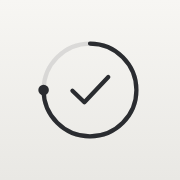
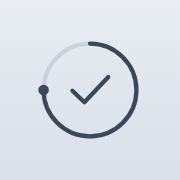
앱 아이콘 블루그레이 계열로 (#184)
Claude-Session: https://claude.ai/code/session_017BV2gW13GbSCur7JoCaXgo

Changed region(s): [[0.1944, 0.2222, 0.7778, 0.7778], [0.3889, 0.4167, 0.6111, 0.5833]]

diff --git a/src/lib/appIcon.js b/src/lib/appIcon.js
@@ -1,7 +1,7 @@
 // 홈 화면 앱 아이콘: 고른 그림을 apple-touch-icon 으로 (홈 화면에 다시 추가할 때 반영)
 // 틴트용: iOS 홈 화면 '틴트' 아이콘 모드는 밝기만 남겨 색을 입히므로, 어두운 바탕 + 밝기 단계가 다른 흰 선으로 만듦
-export const APP_ICONS = [['', '기본'], ['light', '화이트'], ['dark', '차콜'], ['mono', '블랙'], ['olive', '그레이'], ['tint', '틴트용'],
-  ['book', '책'], ['book-d', '책 다크'], ['pencil', '연필'], ['pencil-d', '연필 다크'], ['page', '공책'], ['page-d', '공책 다크'], ['clock', '시계'], ['clock-d', '시계 다크'], ['dots', '점'], ['dots-d', '점 다크'], ['moon', '달'], ['moon-d', '달 다크']] // 모두 모노톤 (키는 예전 선택 유지용)
+export const APP_ICONS = [['', '기본'], ['light', '페일'], ['dark', '다크'], ['mono', '딥'], ['olive', '미드'], ['tint', '틴트용'],
+  ['book', '책'], ['book-d', '책 다크'], ['pencil', '연필'], ['pencil-d', '연필 다크'], ['page', '공책'], ['page-d', '공책 다크'], ['clock', '시계'], ['clock-d', '시계 다크'], ['dots', '점'], ['dots-d', '점 다크'], ['moon', '달'], ['moon-d', '달 다크']] // 모두 블루그레이 한 계열 (키는 예전 선택 유지용)
 const base = import.meta.env.BASE_URL
 export const iconSrc = (k) => (k ? `${base}icons/${k}.png` : `${base}apple-touch-icon.png`)
 export function getAppIcon() { try { return localStorage.getItem('app_icon') || '' } catch { return '' } }

diff --git a/src/lib/whatsnew.js b/src/lib/whatsnew.js
@@ -1,5 +1,6 @@
 // 업데이트 뒤 처음 열 때 조용히 한 줄로 알려 줄 '새로워진 점' (맨 위가 최신)
 export const CHANGES = [
+  { v: '2026.11.17', items: ['앱 아이콘 18가지를 모두 블루그레이 계열로 (밝게 · 페일 · 다크 · 딥 · 미드 · 틴트용)'] },
   { v: '2026.11.16', items: ['앱 아이콘 그림 추가: 책 · 연필 · 공책 · 시계 · 점 · 달 (각각 밝게 · 다크, 모두 모노톤) — 설정 › 디자인 › 앱 아이콘'] },
   { v: '2026.11.15', items: ['홈 화면 앱 아이콘을 모노톤으로 새로 그림: 가는 진행 고리 + 체크 (기본 · 화이트 · 차콜 · 블랙 · 그레이 · 틴트용) — 홈 화면에서 지우고 Safari 에서 다시 추가하면 바뀌어요'] },
   { v: '2026.11.14', items: ['알림을 누르면 그 할 일 · 일정 · 하루 마감 화면이 바로 열려요 (앱이 이미 열려 있어도)', '받을 알림 종류를 하나씩 켜고 끄기 (할 일 · 일정 · 학원 · 약 · 아침 브리핑 · 저녁 마감)', '새 일정 · 학원 기본 알림 (예: 10분 전) · 늦게 도착한 알림은 묶기 · 보내지 않기 · 하나씩 중에 고르기', '저녁 마감 알림: 오늘 공부 · 남은 할 일, 누르면 하루 마감하기 (마감한 날은 안 와요)', '정확한 시간에 받기: 1분마다 깨우기 안내 · 토큰 확인 버튼 · 값 복사', '아이콘을 더 가늘고 둥글게 새로 그림'] },
